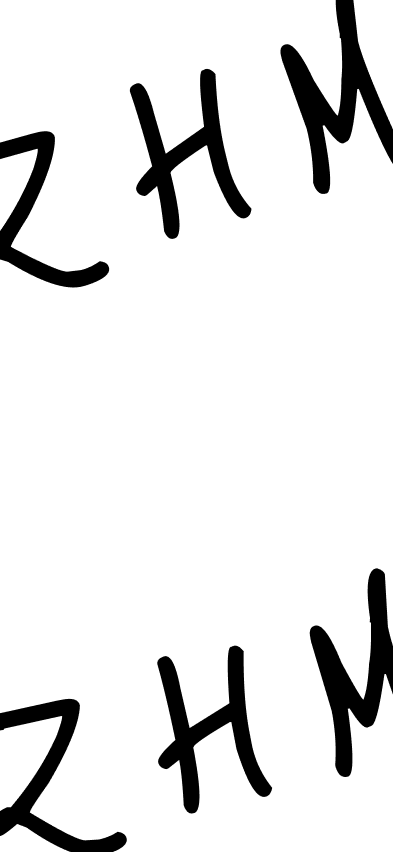
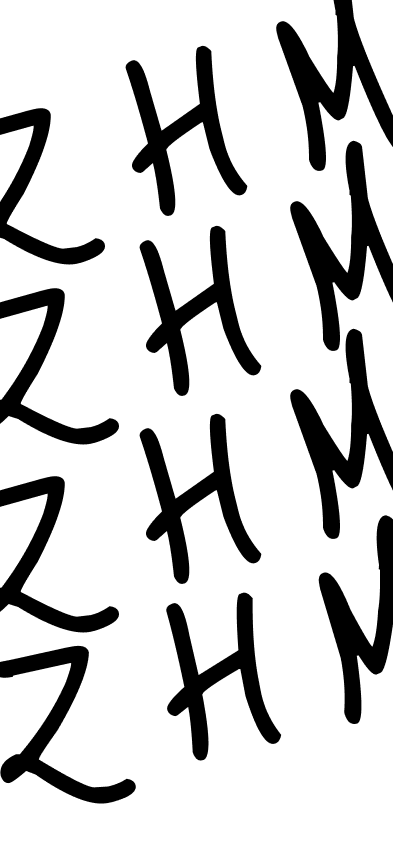
version 1.22

diff --git a/index.html b/index.html
@@ -19,7 +19,7 @@
       justify-content: center;
 
       background-image: url('background.png');
-      background-repeat: repeat;
+      background-repeat: no-repeat;
       background-size: 220px 220px;
     }
 